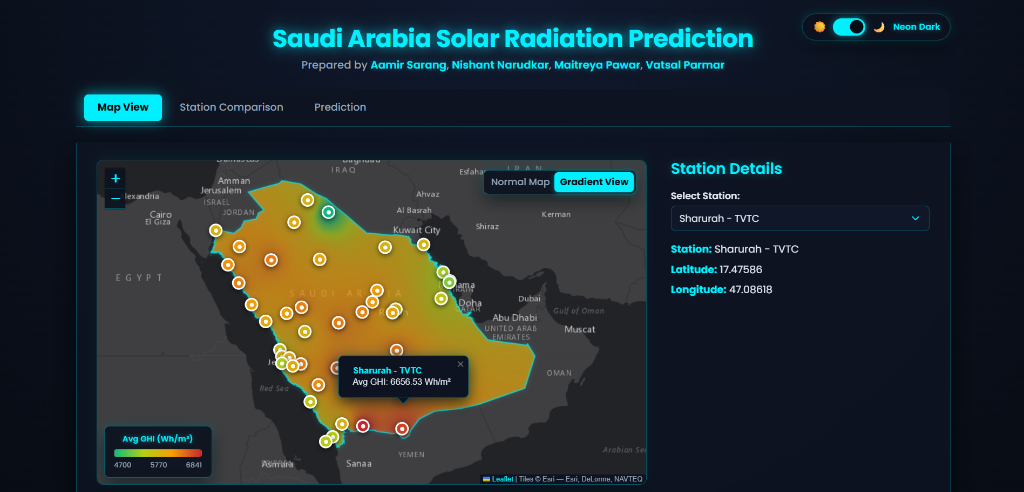
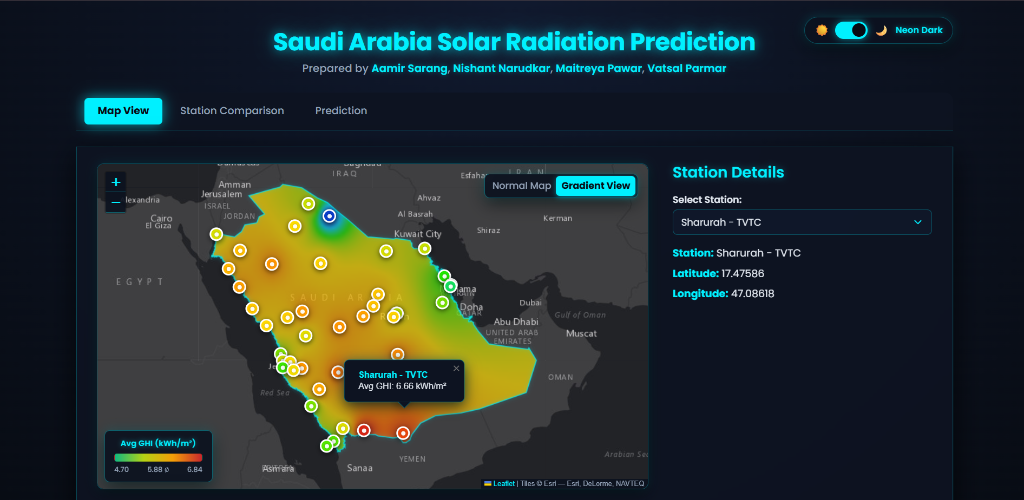
feat: Update GHI units to kWh/m² across UI and refresh showcase screenshots
- Convert GHI display values to kWh/m² across prediction alert, station popups, comparison table, and gradient legend
- Implement mean-centred solar gradient layer scaling and beacon color thresholds
- Refresh all 5 showcase screenshots in Screenshots/ with the latest UI and kWh/m² metrics

diff --git a/static/app.js b/static/app.js
@@ -330,27 +330,44 @@ function initMap() {
     updateMapTileTheme(isDarkMode());
 }
 
-// Shared GHI color mapping: normalized t (0-1) to smooth Green → Yellow → Orange → Red
+// Shared GHI color mapping: normalized t (0-1) to smooth Blue → Cyan → Green → Yellow → Orange → Red
+// Uses gamma stretch (power 0.72) to spread mid-range IDW values across more of the color spectrum,
+// preventing the "all orange" clustering that occurs when station GHI values span a narrow range.
 function getGhiColorRGB(t) {
+    // Gamma stretch: pull mid-range values toward brighter colours so the map looks varied
+    t = Math.pow(Math.max(0, Math.min(1, t)), 0.72);
+
     let r, g, b;
-    if (t < 0.35) {
-        // Green → Yellow-Green
-        const s = t / 0.35;
-        r = Math.round(16 + s * (180 - 16));
-        g = Math.round(185 + s * (210 - 185));
-        b = Math.round(129 - s * 109);
+    if (t < 0.2) {
+        // Deep Blue → Cyan
+        const s = t / 0.2;
+        r = Math.round(10  + s * 0);
+        g = Math.round(60  + s * (210 - 60));
+        b = Math.round(200 + s * (255 - 200));
+    } else if (t < 0.4) {
+        // Cyan → Green
+        const s = (t - 0.2) / 0.2;
+        r = Math.round(0   + s * 30);
+        g = Math.round(210 + s * (230 - 210));
+        b = Math.round(255 - s * 255);
     } else if (t < 0.6) {
-        // Yellow-Green → Amber
-        const s = (t - 0.35) / 0.25;
-        r = Math.round(180 + s * (245 - 180));
-        g = Math.round(210 - s * (210 - 158));
-        b = Math.round(20 - s * 12);
+        // Green → Yellow
+        const s = (t - 0.4) / 0.2;
+        r = Math.round(30  + s * (255 - 30));
+        g = Math.round(230 - s * (230 - 220));
+        b = Math.round(0);
+    } else if (t < 0.8) {
+        // Yellow → Orange
+        const s = (t - 0.6) / 0.2;
+        r = Math.round(255);
+        g = Math.round(220 - s * (220 - 110));
+        b = Math.round(0);
     } else {
-        // Amber → Deep Red
-        const s = (t - 0.6) / 0.4;
-        r = Math.round(245 - s * (245 - 200));
-        g = Math.round(158 - s * (158 - 40));
-        b = Math.round(8 + s * (45 - 8));
+        // Orange → Deep Red
+        const s = (t - 0.8) / 0.2;
+        r = Math.round(255 - s * 60);
+        g = Math.round(110 - s * 110);
+        b = Math.round(0   + s * 30);
     }
     return [r, g, b];
 }
@@ -359,13 +376,14 @@ function getGhiColorRGB(t) {
 const defaultPinIcon = new L.Icon.Default();
 
 // Custom GHI-colored beacon icon for gradient view
-function createGhiBeaconIcon(ghi, minGhi, maxGhi) {
-    const t = Math.max(0, Math.min(1, (ghi - minGhi) / (maxGhi - minGhi || 1)));
+// Uses mean-centred normalization: t=0.5 → mean GHI, blue = below avg, red = above avg.
+function createGhiBeaconIcon(ghi, ghiMean, ghiHalfRange) {
+    const t = Math.max(0, Math.min(1, 0.5 + (ghi - ghiMean) / (2 * ghiHalfRange)));
     const [r, g, b] = getGhiColorRGB(t);
     const color = `rgb(${r}, ${g}, ${b})`;
     return L.divIcon({
         className: 'station-beacon-marker',
-        html: `<div class="station-beacon" style="--beacon-color: ${color};" title="GHI: ${Math.round(ghi)} Wh/m²"><div class="beacon-core"></div></div>`,
+        html: `<div class="station-beacon" style="--beacon-color: ${color};" title="GHI: ${(ghi / 1000).toFixed(2)} kWh/m²"><div class="beacon-core"></div></div>`,
         iconSize: [22, 22],
         iconAnchor: [11, 11],
         popupAnchor: [0, -12]
@@ -374,8 +392,8 @@ function createGhiBeaconIcon(ghi, minGhi, maxGhi) {
 
 function updateStationMarkersMode(mode) {
     const isHeatmap = (mode === 'heatmap');
-    const ghiMin = gradientLayer ? gradientLayer._ghiMin : 4000;
-    const ghiMax = gradientLayer ? gradientLayer._ghiMax : 7500;
+    const ghiMean = gradientLayer ? gradientLayer._ghiMean : 5700;
+    const ghiHalfRange = gradientLayer ? gradientLayer._ghiHalfRange : 1500;
 
     Object.keys(markers).forEach(name => {
         const marker = markers[name];
@@ -383,7 +401,7 @@ function updateStationMarkersMode(mode) {
         if (!marker || !st) return;
 
         if (isHeatmap) {
-            marker.setIcon(createGhiBeaconIcon(st.avg_ghi, ghiMin, ghiMax));
+            marker.setIcon(createGhiBeaconIcon(st.avg_ghi, ghiMean, ghiHalfRange));
         } else {
             marker.setIcon(defaultPinIcon);
         }
@@ -402,6 +420,13 @@ const SolarGradientLayer = L.Layer.extend({
         const ghis = this.stations.map(s => s.avg_ghi).filter(v => v > 0);
         this._ghiMin = ghis.length ? Math.min(...ghis) : 4000;
         this._ghiMax = ghis.length ? Math.max(...ghis) : 7500;
+        // Mean-centred scale: yellow = mean GHI; symmetric halfRange keeps both tails balanced
+        this._ghiMean = ghis.length ? ghis.reduce((a, b) => a + b, 0) / ghis.length : 5700;
+        this._ghiHalfRange = Math.max(
+            this._ghiMean - this._ghiMin,
+            this._ghiMax - this._ghiMean,
+            1
+        );
     },
 
     onAdd: function(map) {
@@ -456,8 +481,8 @@ const SolarGradientLayer = L.Layer.extend({
         const stGhis = this.stations.map(s => s.avg_ghi);
         const nStations = this.stations.length;
 
-        const ghiMin = this._ghiMin;
-        const ghiRange = this._ghiMax - ghiMin || 1;
+        const ghiMean = this._ghiMean;
+        const ghiHalfRange = this._ghiHalfRange;
         const P = 2.5; // IDW power parameter
 
         // Normalize SAUDI_BOUNDARY rings (handles single ring or MultiPolygon array of rings)
@@ -493,8 +518,9 @@ const SolarGradientLayer = L.Layer.extend({
                     denominator += w;
                 }
 
-                const ghi = exact >= 0 ? stGhis[exact] : (denominator > 0 ? numerator / denominator : ghiMin);
-                const t = Math.max(0, Math.min(1, (ghi - ghiMin) / ghiRange));
+                const ghi = exact >= 0 ? stGhis[exact] : (denominator > 0 ? numerator / denominator : ghiMean);
+                // Mean-centred: t=0.5 → mean GHI; below mean → blue/green; above mean → orange/red
+                const t = Math.max(0, Math.min(1, 0.5 + (ghi - ghiMean) / (2 * ghiHalfRange)));
                 const [r, g, b] = getGhiColorRGB(t);
 
                 const idx = (sy * sw + sx) * 4;
@@ -554,19 +580,20 @@ const SolarGradientLayer = L.Layer.extend({
 // Color Legend Control for the Gradient View
 const SolarLegendControl = L.Control.extend({
     options: { position: 'bottomleft' },
-    initialize: function(ghiMin, ghiMax) {
+    initialize: function(ghiMin, ghiMean, ghiMax) {
         this._ghiMin = ghiMin;
+        this._ghiMean = ghiMean;
         this._ghiMax = ghiMax;
     },
     onAdd: function() {
         const div = L.DomUtil.create('div', 'solar-legend');
         div.innerHTML = `
-            <div class="solar-legend-title">Avg GHI (Wh/m²)</div>
+            <div class="solar-legend-title">Avg GHI (kWh/m²)</div>
             <div class="solar-legend-bar"></div>
             <div class="solar-legend-labels">
-                <span>${Math.round(this._ghiMin)}</span>
-                <span>${Math.round((this._ghiMin + this._ghiMax) / 2)}</span>
-                <span>${Math.round(this._ghiMax)}</span>
+                <span>${(this._ghiMin / 1000).toFixed(2)}</span>
+                <span>${(this._ghiMean / 1000).toFixed(2)} &#x2205;</span>
+                <span>${(this._ghiMax / 1000).toFixed(2)}</span>
             </div>
         `;
         return div;
@@ -600,7 +627,7 @@ function loadMapAndStationData() {
 
                 // Add marker
                 const marker = L.marker([st.latitude, st.longitude]).addTo(map);
-                marker.bindPopup(`<strong>${st.station_name}</strong><br>Avg GHI: ${st.avg_ghi.toFixed(2)} Wh/m²`);
+                marker.bindPopup(`<strong>${st.station_name}</strong><br>Avg GHI: ${(st.avg_ghi / 1000).toFixed(2)} kWh/m²`);
                 marker.on('click', () => {
                     stationSelect.value = st.station_name;
                     onStationSelectChange(st.station_name, true);
@@ -699,7 +726,7 @@ function setMapMode(mode) {
         updateStationMarkersMode('heatmap');
         // Show color legend
         if (!legendControl && gradientLayer) {
-            legendControl = new SolarLegendControl(gradientLayer._ghiMin, gradientLayer._ghiMax);
+            legendControl = new SolarLegendControl(gradientLayer._ghiMin, gradientLayer._ghiMean, gradientLayer._ghiMax);
             legendControl.addTo(map);
         }
         if (toggleBtn) toggleBtn.textContent = 'Switch to Normal Map';
@@ -1099,10 +1126,10 @@ function renderComparisonPlot() {
         const tr = document.createElement('tr');
         tr.innerHTML = `
             <td><strong>${st}</strong></td>
-            <td>${mean !== null ? mean.toFixed(2) : '--'}</td>
-            <td>${min !== null ? min.toFixed(2) : '--'}</td>
-            <td>${max !== null ? max.toFixed(2) : '--'}</td>
-            <td>${std !== null ? std.toFixed(2) : '--'}</td>
+            <td>${mean !== null ? (mean / 1000).toFixed(2) : '--'}</td>
+            <td>${min !== null ? (min / 1000).toFixed(2) : '--'}</td>
+            <td>${max !== null ? (max / 1000).toFixed(2) : '--'}</td>
+            <td>${std !== null ? (std / 1000).toFixed(2) : '--'}</td>
         `;
         tbody.appendChild(tr);
     });
@@ -1160,7 +1187,7 @@ function computePrediction() {
     .then(res => res.json())
     .then(data => {
         if (data.prediction !== undefined) {
-            predValText.textContent = data.prediction.toFixed(2);
+            predValText.textContent = (data.prediction / 1000).toFixed(2);
         } else if (data.error) {
             console.warn("Prediction error:", data.error);
             predValText.textContent = 'Error';
@@ -1168,7 +1195,7 @@ function computePrediction() {
     })
     .catch(err => {
         console.error("Prediction request failed:", err);
-        predValText.textContent = '5946.36';
+        predValText.textContent = '5.95';
     });
 }
 

diff --git a/templates/index.html b/templates/index.html
@@ -176,10 +176,10 @@
                             <thead>
                                 <tr>
                                     <th>Station</th>
-                                    <th>GHI Mean</th>
-                                    <th>GHI Min</th>
-                                    <th>GHI Max</th>
-                                    <th>GHI Std</th>
+                                    <th>GHI Mean (kWh/m²)</th>
+                                    <th>GHI Min (kWh/m²)</th>
+                                    <th>GHI Max (kWh/m²)</th>
+                                    <th>GHI Std (kWh/m²)</th>
                                 </tr>
                             </thead>
                             <tbody>
@@ -325,7 +325,7 @@
 
                 <!-- Prediction Result Box -->
                 <div id="predictionResult" class="prediction-alert mt-4">
-                    Predicted GHI: <span id="predValueText" style="font-weight: 700;">--</span> Wh/m²
+                    Predicted GHI: <span id="predValueText" style="font-weight: 700;">--</span> kWh/m²
                 </div>
             </div>
 
